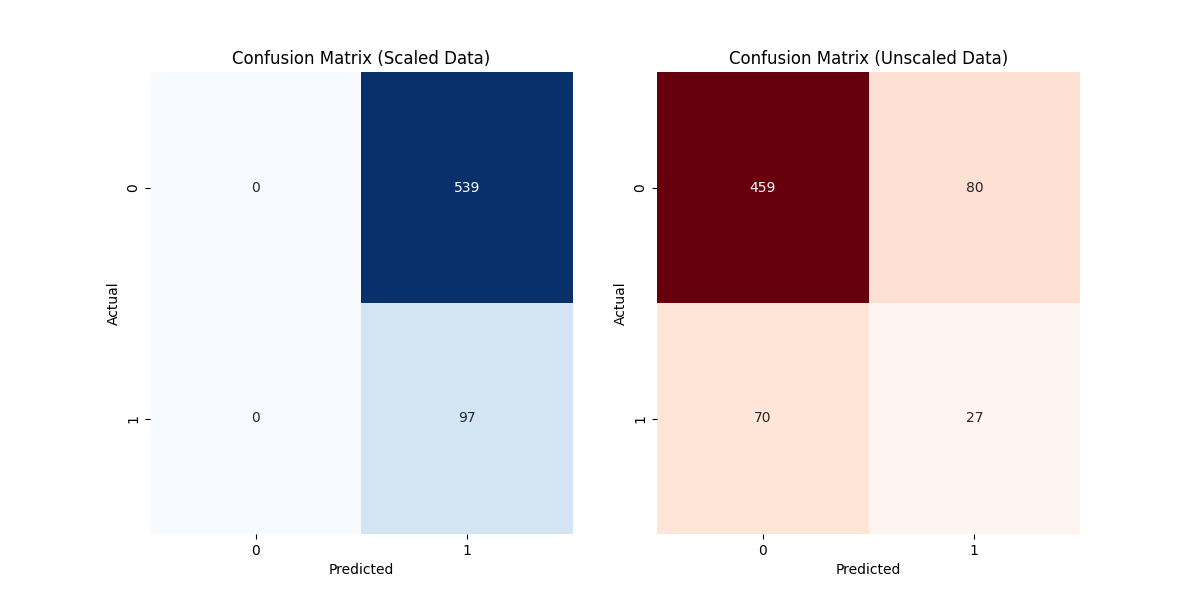
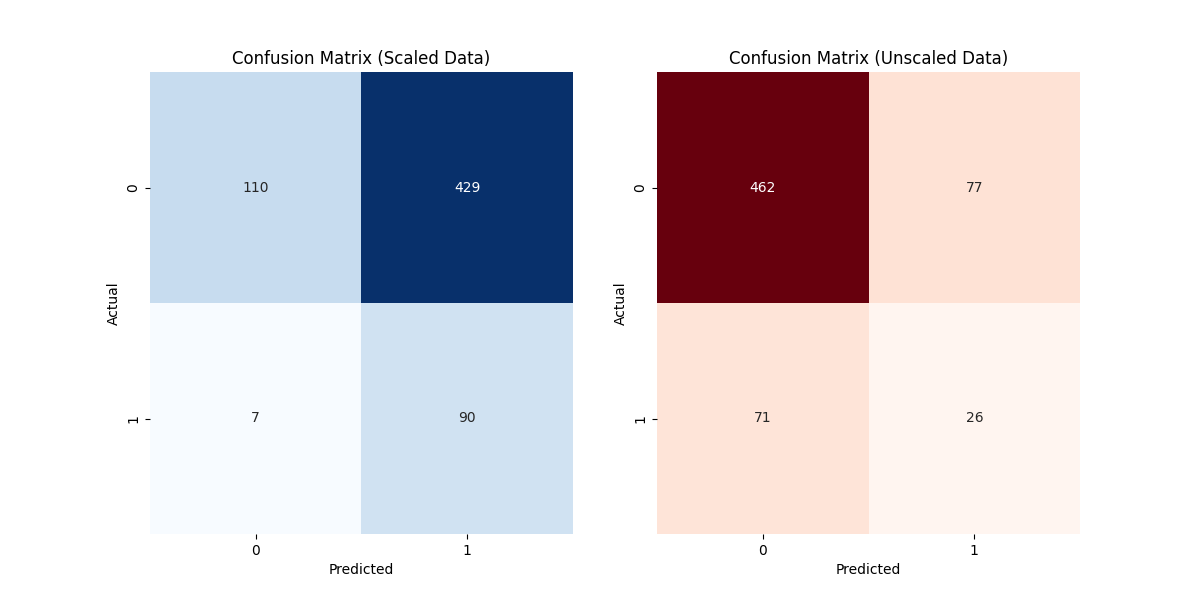
Q2 C confusion done

diff --git a/A1/Q2/C.py b/A1/Q2/C.py
@@ -30,7 +30,7 @@ def cross_entropy_loss(y, y_pred):
     return -np.mean(y * np.log(y_pred) + (1 - y) * np.log(1 - y_pred))
 
 # Logistic Regression using Batch Gradient Descent
-def logistic_regression_extended(X, y, X_val, y_val, lr=0.00001, iterations=10000):
+def logistic_regression_extended(X, y, X_val, y_val, lr=0.0001, iterations=10000):
     # weights = np.zeros(X.shape[1])
     weights = np.random.rand(X.shape[1])
     bias = 0
@@ -80,9 +80,9 @@ def predict(X, weights, bias):
     return sigmoid(z)
 
 X_train_scaled, X_val_scaled = apply_scaling(scaling=True)
-weights_minmax, bias_minmax, train_losses_minmax, val_losses_minmax = logistic_regression_extended(X_train_scaled, y_train, X_val_scaled, y_val)
+weights_minmax, bias_minmax, train_losses_minmax, val_losses_minmax = logistic_regression_extended(X_train_scaled, y_train, X_val_scaled, y_val, lr=0.0001, iterations=10000)
 X_train_unscaled, X_val_unscaled = apply_scaling(scaling=False)
-weights_no_scale, bias_no_scale, train_losses_no_scaling, val_losses_no_scaling = logistic_regression_extended(X_train_unscaled, y_train, X_val_unscaled, y_val)
+weights_no_scale, bias_no_scale, train_losses_no_scaling, val_losses_no_scaling = logistic_regression_extended(X_train_unscaled, y_train, X_val_unscaled, y_val, lr=0.0001, iterations=1000)
 
 y_val_pred_probs = predict(X_val_scaled, weights_minmax, bias_minmax)
 y_val_pred = (y_val_pred_probs >= 0.5).astype(int)
